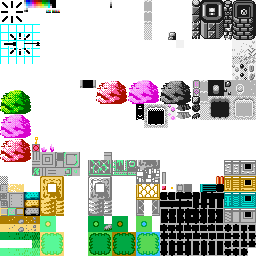
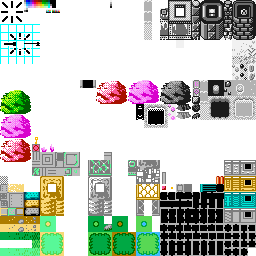
added a wallset

Changed region(s): [[0.625, 0.0, 0.875, 0.1562], [0.4375, 0.625, 0.5, 0.6875]]

diff --git a/index.html b/index.html
@@ -1351,7 +1351,7 @@
             rand = parseInt(gen.charAt(genIndex));
             genIndex++;
         } else {
-            rand = Math.floor(Math.random()*2);
+            rand = Math.floor(Math.random()*3);
         }
         seed+=rand+'_';
         
